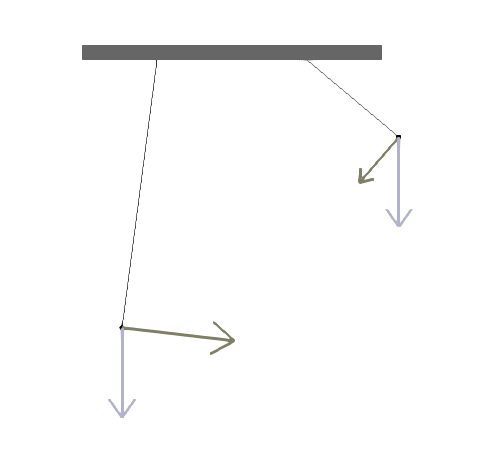
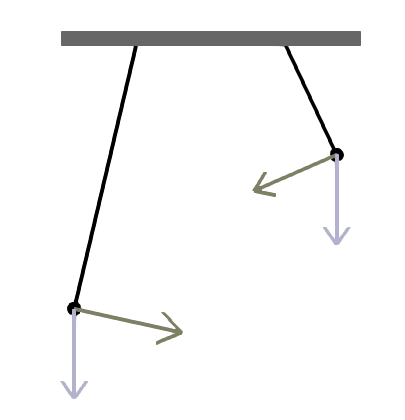
wahadła

Changed region(s): [[0.1481, 0.0619, 0.8889, 0.9595], [0.6222, 0.2476, 0.8593, 0.4952], [0.8, 0.4333, 0.8593, 0.5881]]

diff --git a/KodyZrodlowe/Rozdzial1/K_Sprez_biale.c b/KodyZrodlowe/Rozdzial1/K_Sprez_biale.c
@@ -28,7 +28,7 @@
 GLenum rgb, doubleBuffer=1, windType;
 GLint windW, windH;
 
-#include "tkmap.c"
+//#include "tkmap.c"
 
 GLenum mode=0;
 GLint size;
@@ -44,7 +44,7 @@ float point3[3] = {
 };
 
 
-double y=0,dy=0,v=-6.40,dv=0,t=0,dt=0.01,g=-9.8;
+double y=0,dy=0,v=-6.40,dv=0,t=0,dt=0.09,g=-9.8;
 double k=0.4;
 
 double y2=0,dy2=0,v2=-6.40,dv2=0;
@@ -157,7 +157,8 @@ void RysujSprezyne(double x1, double y1, double x2, double y2)
 	double _wx1,_wy1,_wx2,_wy2;
 	int i;
 
-
+    glLineWidth(4);
+    glEnable(GL_LINE_SMOOTH);
 	
 	vsize=sqrt((x2-x1)*(x2-x1)+(y2-y1)*(y2-y1));
 
@@ -236,7 +237,6 @@ void RysujSprezyne(double x1, double y1, double x2, double y2)
 	glVertex2f(wx1,wy1);
 	glVertex2f(wx2+ (x2/vsize)*vsize*4/frac,wy2+ (y2/vsize)*vsize*4/frac);
 	glEnd();
-
 
 }
 
@@ -434,19 +434,19 @@ int main(int argc, char **argv)
 	exit(1);
     }
 
-    windW = 300;
-    windH = 300;
+    windW = 600;
+    windH = 600;
     glutInitWindowPosition(0, 0); glutInitWindowSize( windW, windH);
 
     windType = (rgb) ? GLUT_RGB : GLUT_INDEX;
     windType |= (doubleBuffer) ? GLUT_DOUBLE : GLUT_SINGLE;
     glutInitDisplayMode(windType);
 
-    if (glutCreateWindow("Point Test") == GL_FALSE) {
+    if (glutCreateWindow("Oscylatory harmoniczne") == GL_FALSE) {
 	exit(1);
     }
 
-    InitMap();
+//    InitMap();
 
     Init();
 

diff --git a/README.md b/README.md
@@ -6,6 +6,19 @@ Kompletna lista materiałów z opisem znajduje się w książce.
 
 *Zbiór i opisy wybranych kodów źródłowych:*
 
+<img align="right" width="180" height="140" src="KodyZrodlowe/Rozdzial1/K_Sprez_biale.png">
+* [**KodyZrodlowe/Rozdzial1/K_Sprez_biale.c**](KodyZrodlowe/Rozdzial1/K_Sprez_biale.c)
+  *Symulacja ruchu trzech różnych mas zawieszonych na sprężynach z wizualizacją chwilowej siły wypadkowej. 
+
+<img align="right" width="180" height="140" src="KodyZrodlowe/Rozdzial1/K_Wahadlo.png">
+* [**KodyZrodlowe/Rozdzial1/K_Wahadlo.png.c**](KodyZrodlowe/Rozdzial1/K_Wahadlo.png.c)
+  *Rozwiązanie numeryczne wahadła  matematycznego metodą Eulera. 
+
+<img align="right" width="180" height="140" src="KodyZrodlowe/Rozdzial1/K_WahadloSprez2020.png">
+* [**KodyZrodlowe/Rozdzial1/K_WahadloSprez2020.c**](KodyZrodlowe/Rozdzial1/K_WahadloSprez2020.c)
+  *Symulacja punktu materialnego zawieszonego na sprężynie (całkowanie metodą Eulera). Wersja poprawiona (w stosunku do pierwszego wydania, w którym model nie do końca odpowiadał tej sytuacji fizycznej). Oryginalne kody z pierwszego wydania zostały zachowane w katalogu. 
+
+
 <img align="right" width="180" height="140" src="KodyZrodlowe/Rozdzial2/Newton3d/4_powierzchnia_kula_ok.png">
 
 * [**KodyZrodlowe/Rozdzial2/Newton3d/4_powierzchnia_kula_ok/**](KodyZrodlowe/Rozdzial2/Newton3d/4_powierzchnia_kula_ok/)
@@ -118,5 +131,5 @@ własnych obiektów z dodatkowymi sprężynami, których długość w stanie ró
 * [**Kodyzrodlowe/Bonus/PalabosCG/**](Kodyzrodlowe/Bonus/PalabosCG/)
   * Skrypt do biblioteki [Palabos](https://palabos.unige.ch/) umożliwiający rendering 3D z użyciem RayTracingu (PovRay) powierzchni swobodnej płynu.
 
-[(c) Maciej Matyka, 2020](http://panoramix.ift.uni.wroc.pl/~maq/eng/)
+[(c) Maciej Matyka, 2002-2020](http://panoramix.ift.uni.wroc.pl/~maq/eng/)
 
